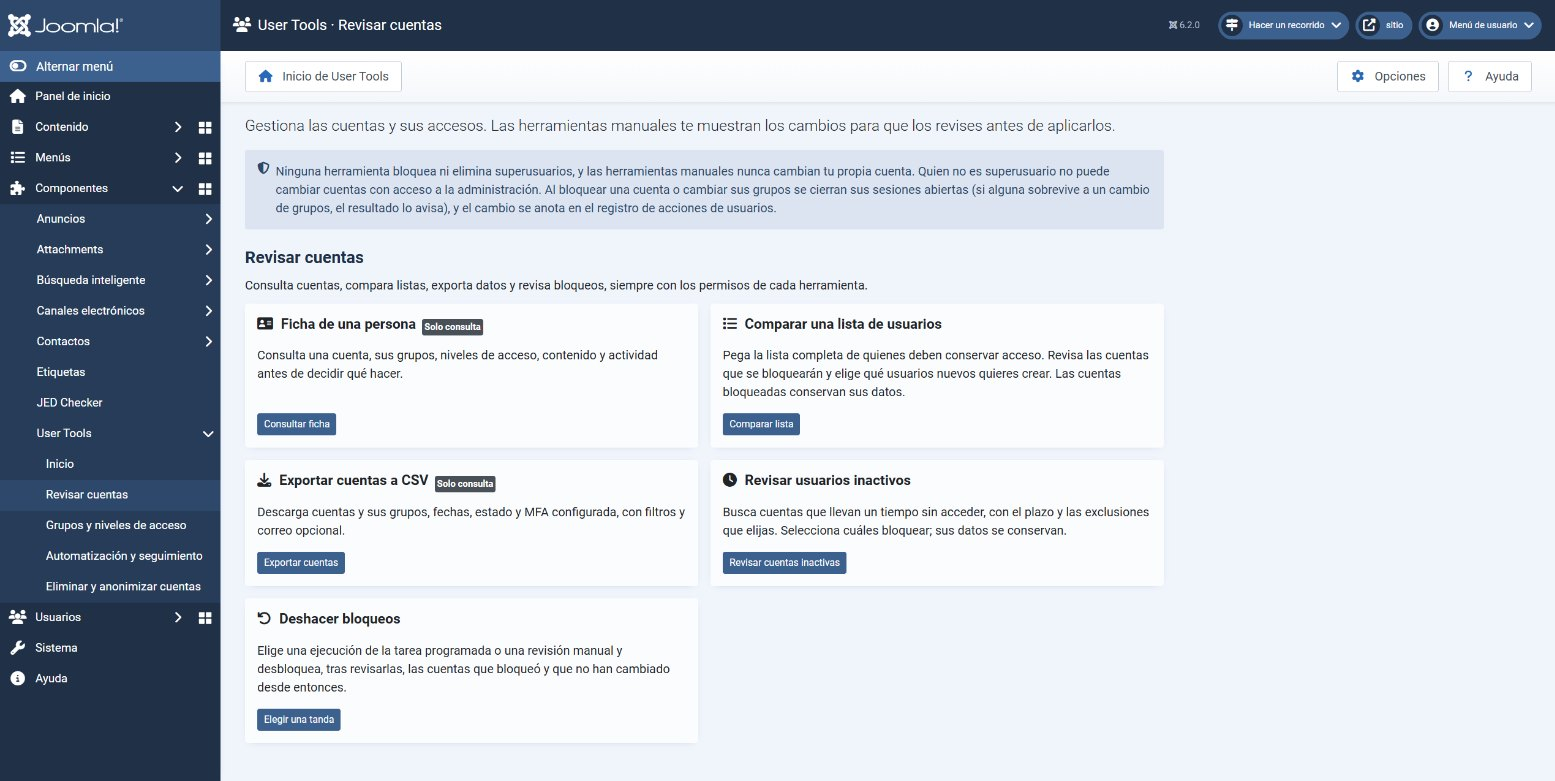
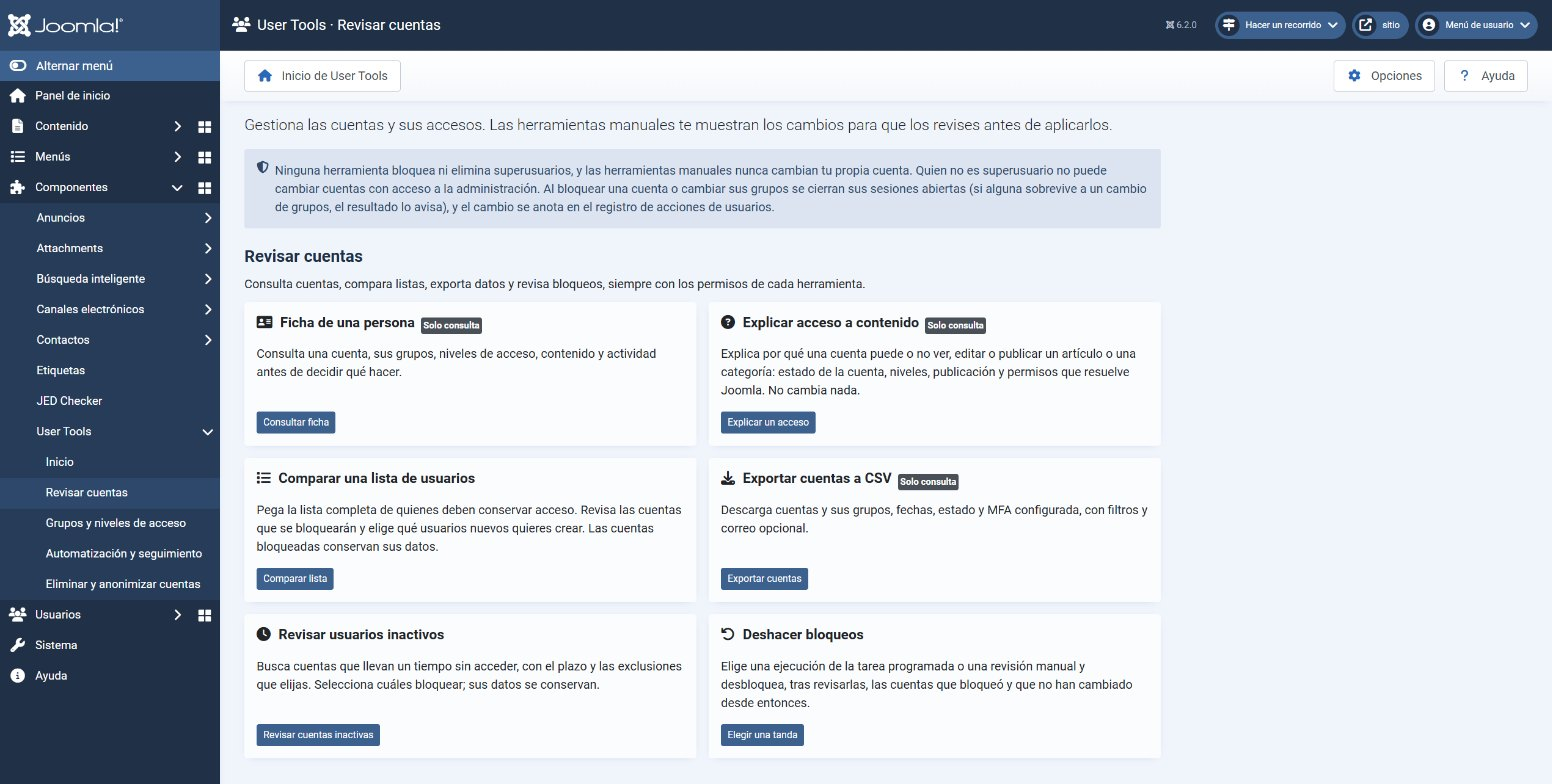
Add real screenshots of the access explanation and the updated home, category and dashboard (#51)

diff --git a/docs/capturas.md b/docs/capturas.md
@@ -4,13 +4,13 @@
 
 [Volver al README](../README.md)
 
-Estas capturas compartidas muestran la interfaz en español en Joomla 6.2.0. Cada pie indica la versión en que se hizo la captura cuando es reciente: las de eliminación son de 2026.10.5, las de quitar de grupos de 2026.10.9 y 2026.10.16, la revisión de la comparación y la de grupos y niveles de acceso de 2026.10.11, la de contenido por nivel de acceso de 2026.10.12, las de diagnóstico de accesos y la lista de contenido por antigüedad de 2026.10.15, las de mover grupos de 2026.10.16, las de añadir cuentas a grupos, exportar cuentas y deshacer bloqueos de 2026.10.19, las de la ficha de una persona de 2026.10.20, y la portada, las categorías del menú, el panel de Usuarios, la tabla de contenido por antigüedad con sus cuatro tipos y el recorrido guiado, de 2026.10.21. Las que no indican versión corresponden a una interfaz anterior y pueden diferir de la actual. Para las opciones y el comportamiento vigentes, consulta el [README](../README.md) y las [preguntas frecuentes](../FAQ.md).
+Estas capturas compartidas muestran la interfaz en español en Joomla 6.2.0. Cada pie indica la versión en que se hizo la captura cuando es reciente: las de eliminación son de 2026.10.5, las de quitar de grupos de 2026.10.9 y 2026.10.16, la revisión de la comparación y la de grupos y niveles de acceso de 2026.10.11, la de contenido por nivel de acceso de 2026.10.12, las de diagnóstico de accesos y la lista de contenido por antigüedad de 2026.10.15, las de mover grupos de 2026.10.16, las de añadir cuentas a grupos, exportar cuentas y deshacer bloqueos de 2026.10.19, las de la ficha de una persona de 2026.10.20, la tabla de contenido por antigüedad con sus cuatro tipos, las categorías de automatización, grupos y eliminación, y el recorrido guiado, de 2026.10.21, y la portada, la categoría «Revisar cuentas», el panel de Usuarios y la explicación de acceso, de la versión siguiente a 2026.10.21. Las que no indican versión corresponden a una interfaz anterior y pueden diferir de la actual. Para las opciones y el comportamiento vigentes, consulta el [README](../README.md) y las [preguntas frecuentes](../FAQ.md).
 
 Además de estas capturas, la CI comprueba el orden de teclado, el despliegue del menú y la categoría activa, y guarda capturas a texto al 200 %, con preferencia oscura y a 390 px de ancho. Las tarjetas caben a 390 px, pero la cabecera general de Joomla genera un ancho de documento de 600 px; no se ha alterado la plantilla para ocultarlo. Esto no acredita conformidad WCAG ni sustituye pruebas con lector de pantalla.
 
-![Portada de User Tools con sus cuatro categorías y todas las herramientas permitidas, y el menú Componentes → User Tools desplegado con Inicio activo (2026.10.21)](screenshots/01-portada.jpg)
+![Portada de User Tools con sus cuatro categorías y todas las herramientas permitidas, y el menú Componentes → User Tools desplegado con Inicio activo (posterior a 2026.10.21)](screenshots/01-portada.jpg)
 
-![Categoría «Revisar cuentas», señalada en el menú, con sus cinco herramientas (2026.10.21)](screenshots/31-menu-cuentas.jpg)
+![Categoría «Revisar cuentas», señalada en el menú, con sus seis herramientas (posterior a 2026.10.21)](screenshots/31-menu-cuentas.jpg)
 
 ![Categoría «Grupos y niveles de acceso», señalada en el menú, con sus siete herramientas (2026.10.21)](screenshots/32-menu-grupos.jpg)
 
@@ -21,6 +21,8 @@ Además de estas capturas, la CI comprueba el orden de teclado, el despliegue de
 ![Ficha de una persona: datos de la cuenta, grupos en su árbol con el grupo intermedio, niveles de acceso efectivos y por qué, contenido creado, registro de acciones reciente y enlaces a las herramientas (2026.10.20)](screenshots/28-ficha-persona.jpg)
 
 ![Ficha de una persona: revisión del bloqueo de esa cuenta, con confirmación y sin filtro de inactividad (2026.10.20)](screenshots/29-ficha-revision-bloqueo.jpg)
+
+![Explicar acceso a contenido: por qué una cuenta no puede publicar un artículo, con todas las condiciones que no cumple a la vez (posterior a 2026.10.21)](screenshots/35-explicar-acceso.jpg)
 
 ![Comparación: lista y exclusiones](screenshots/02-comparacion-lista.jpg)
 
@@ -60,7 +62,7 @@ Además de estas capturas, la CI comprueba el orden de teclado, el despliegue de
 
 ![Detalle de un informe de tarea](screenshots/10-informe-tarea.jpg)
 
-![Módulo User Tools en el panel de Usuarios: aviso del diagnóstico, cuentas para revisar, tareas con su modo y resultado, y accesos directos agrupados por las mismas categorías del menú (2026.10.21)](screenshots/13-panel-usuarios.jpg)
+![Módulo User Tools en el panel de Usuarios: aviso del diagnóstico, cuentas para revisar, tareas con su modo y resultado, y accesos directos agrupados por las mismas categorías del menú (posterior a 2026.10.21)](screenshots/13-panel-usuarios.jpg)
 
 ![Grupos y niveles de acceso: matriz de grupos por nivel, exportación CSV y resumen por nivel (2026.10.11)](screenshots/14-grupos-niveles.jpg)
 

diff --git a/docs/screenshots.en.md b/docs/screenshots.en.md
@@ -4,13 +4,13 @@
 
 [Back to the README](../README.en.md)
 
-These shared screenshots show the Spanish interface on Joomla 6.2.0. Each caption gives the version the screenshot was taken with when it is recent: deletion in 2026.10.5, remove from groups in 2026.10.9 and 2026.10.16, the comparison review and groups and access levels in 2026.10.11, content by access level in 2026.10.12, access diagnosis and the content by age list in 2026.10.15, move groups in 2026.10.16, add accounts to groups, export accounts and undo blocks in 2026.10.19, the account profile in 2026.10.20, and the home screen, the menu categories, the Users dashboard, the content by age table with its four kinds and the guided tour in 2026.10.21. Screenshots without a version show an older interface and may differ from the current one. For current options and behaviour, see the [README](../README.en.md) and [FAQ](../FAQ.en.md).
+These shared screenshots show the Spanish interface on Joomla 6.2.0. Each caption gives the version the screenshot was taken with when it is recent: deletion in 2026.10.5, remove from groups in 2026.10.9 and 2026.10.16, the comparison review and groups and access levels in 2026.10.11, content by access level in 2026.10.12, access diagnosis and the content by age list in 2026.10.15, move groups in 2026.10.16, add accounts to groups, export accounts and undo blocks in 2026.10.19, the account profile in 2026.10.20, the content by age table with its four kinds, the automation, groups and delete categories and the guided tour in 2026.10.21, and the home screen, the “Review accounts” category, the Users dashboard and the access explanation in the version after 2026.10.21. Screenshots without a version show an older interface and may differ from the current one. For current options and behaviour, see the [README](../README.en.md) and [FAQ](../FAQ.en.md).
 
 Besides these screenshots, CI checks keyboard order, menu expansion and the active category, and saves captures at 200% text size, with a dark preference and at 390 px width. The cards fit at 390 px, but Joomla’s overall header produces a document width of 600 px; the template has not been altered to hide this. This does not establish WCAG conformance or replace screen-reader testing.
 
-![User Tools home screen with its four categories and all permitted tools, and the Components → User Tools menu expanded with Home active (2026.10.21, Spanish interface)](screenshots/01-portada.jpg)
+![User Tools home screen with its four categories and all permitted tools, and the Components → User Tools menu expanded with Home active (after 2026.10.21, Spanish interface)](screenshots/01-portada.jpg)
 
-![“Review accounts” category, marked in the menu, with its five tools (2026.10.21, Spanish interface)](screenshots/31-menu-cuentas.jpg)
+![“Review accounts” category, marked in the menu, with its six tools (after 2026.10.21, Spanish interface)](screenshots/31-menu-cuentas.jpg)
 
 ![“Groups and access levels” category, marked in the menu, with its seven tools (2026.10.21, Spanish interface)](screenshots/32-menu-grupos.jpg)
 
@@ -21,6 +21,8 @@ Besides these screenshots, CI checks keyboard order, menu expansion and the acti
 ![Account profile: account details, groups in their tree with the intermediate group, effective access levels and why, authored content, recent action log and links to the tools (2026.10.20, Spanish interface)](screenshots/28-ficha-persona.jpg)
 
 ![Account profile: review of blocking that account, with confirmation and no inactivity filter (2026.10.20, Spanish interface)](screenshots/29-ficha-revision-bloqueo.jpg)
+
+![Explain content access: why an account cannot publish an article, with every unmet condition at once (after 2026.10.21, Spanish interface)](screenshots/35-explicar-acceso.jpg)
 
 ![Comparison: list and exclusions](screenshots/02-comparacion-lista.jpg)
 
@@ -60,7 +62,7 @@ Besides these screenshots, CI checks keyboard order, menu expansion and the acti
 
 ![Task report details](screenshots/10-informe-tarea.jpg)
 
-![User Tools module on the Users dashboard: diagnosis notice, accounts to review, tasks with their mode and result, and shortcuts grouped by the same categories as the menu (2026.10.21, Spanish interface)](screenshots/13-panel-usuarios.jpg)
+![User Tools module on the Users dashboard: diagnosis notice, accounts to review, tasks with their mode and result, and shortcuts grouped by the same categories as the menu (after 2026.10.21, Spanish interface)](screenshots/13-panel-usuarios.jpg)
 
 ![Groups and access levels: groups by level matrix, CSV export and summary by level (2026.10.11, Spanish interface)](screenshots/14-grupos-niveles.jpg)
 

diff --git a/README.md b/README.md
@@ -142,6 +142,8 @@ Requiere el permiso propio *Explicar acceso a contenido* (`usertools.explain`), 
 
 **No comprobado**: lo que Joomla o una extensión deciden fuera de estas reglas aparece en una lista aparte, por ejemplo plugins que añaden restricciones, el idioma en sitios multilingües, la opción de enlaces no autorizados o las condiciones de los plugins de flujo de trabajo. Un «Sí» no garantiza que cualquier dirección funcione. De momento solo cubre artículos y categorías de artículos.
 
+![Explicar acceso a contenido: por qué una cuenta no puede publicar un artículo](docs/screenshots/35-explicar-acceso.jpg)
+
 ## Exportar cuentas a CSV
 
 La herramienta **Exportar cuentas a CSV** requiere el permiso `usertools.export`. Permite filtrar por grupo (y subgrupos), estado e inactividad; para las cuentas sin accesos registrados puede utilizar la fecha de alta. El archivo incluye ID, usuario, nombre, **grupos asignados directamente con su ID**, fecha de último acceso, alta, estado, activación pendiente (cuenta bloqueada que nunca ha accedido y tiene token de activación) y existencia de un método de autenticación multifactor (MFA) configurado, sin sus secretos. El **correo electrónico es opcional y viene desmarcado**; al exportarlo queda constancia en el registro de acciones, sin guardar direcciones en ese registro. El CSV es UTF-8, usa punto y coma y protege contra fórmulas al abrirlo en una hoja de cálculo. Debe custodiarse como información personal.

diff --git a/README.en.md b/README.en.md
@@ -143,6 +143,8 @@ It requires its own *Explain content access* permission (`usertools.explain`), p
 
 **Not checked**: what Joomla or an extension decides outside these rules is listed separately, for example plugins adding restrictions, the language on multilingual sites, the unauthorised links option or the conditions of workflow plugins. A “Yes” does not guarantee that any URL will work. For now it covers articles and article categories only.
 
+![Explain content access: why an account cannot publish an article (Spanish interface)](docs/screenshots/35-explicar-acceso.jpg)
+
 ## Export accounts to CSV
 
 **Export accounts to CSV** requires the `usertools.export` permission. It supports group/descendant, status and inactivity filters; never-visited accounts may be filtered by registration date. The file contains ID, username, name, **direct group memberships with their IDs**, last visit, registration, status, pending activation (a blocked account that has never logged in and has an activation token) and whether an MFA method is configured, without exposing secrets. **Email is optional and unchecked by default**; including it creates a User Actions Log entry without logging the addresses. CSV is UTF-8 with semicolons and spreadsheet formula protection. Handle the file as personal data.
